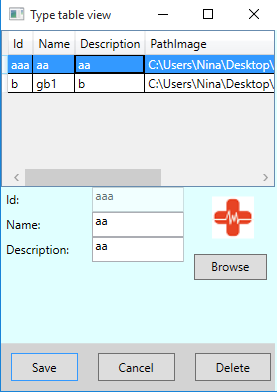
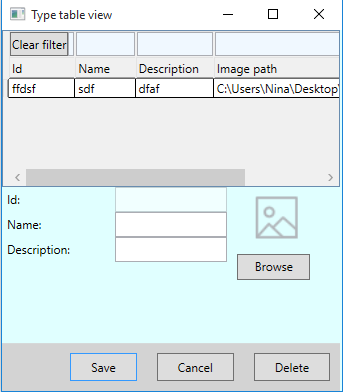
Kaskadno brisanje sa feedbackom

diff --git a/HelpSystem/Helper/View all premises.HTML b/HelpSystem/Helper/View all premises.HTML
@@ -4,20 +4,33 @@
     <meta http-equiv="content-type" content="text/html; charset=windows-1250">
     <meta name="generator" content="Precision Helper 2.0.1">
      <link rel="stylesheet" href="help.css">
-    <title>Premises view</title>
+    <title>Premises preview</title>
   </head>
   <body>
   <h2> View all premises </h2>
   <hr>
   <p>
   &nbsp; &nbsp; &nbsp; Dialog for preview of premises contains table with all previously entered premises. Each column of table 
-  contains certain atribute name and alows you to sort premises in alfabet or reverse alfabet order. Below the table, you
-   can see tabpage with 3 tabs called: <a href="Modify premises.html">"Modify"</a>, <a href="Filter premises.html">"Filter"</a> and 
-   <a href="Search premises.html">"Search"</a>.
+  contains certain atribute name and alows you to sort premises in alfabet or reverse alfabet order. First row of table is filter row. Below the table, you
+   can see form for modifying premises.
    </br></br>
+   Filter row in the table gives you opportunity to filter all premises by the certain atribute. Above each column heder of table
+   you can see filter box where you need to enter or select value for search. After that, all premises which do not match with that filter
+   will disapeare from table and you will see just appropriate ones.
+   
+   </br></br>
+   When you select item from table you can modify in form for modifying premises. Previously entered values appears and you can change them by
+    positioning in appropriate cell. Value "Id" is unique and onced, when new premises is made, you have no more possibility of changing. Other values like "Name", "Description",
+    "Price", "Capacity", "Opening date", "Alcohol serving" and check boxes like "Accessible for persons with disabilities", ""Smoking
+     allowed" and "Reservations avaiable" have posibility of changing in every moment. You are allowed to choose type for each premises. Also, you can add new type or browse picture 
+     from sysem by pressing on appropriate button.
+     </br></br>
+     Click on button "Save" is saving your changes, unlike the click on button "Cancel", which turns you on previous conditions of values. 
+     By pressing on button <a href="Delete premises.html">"Delete"</a> you can delete previously selected premises.
+     </br></br>
     
   <div align="center">
-		<img src = "ModifyPremises.png" >
+		<img src = "PremisesTableView.png" >
 	</div>
  
   </body>

diff --git a/HelpSystem/Helper/View all tags.HTML b/HelpSystem/Helper/View all tags.HTML
@@ -4,23 +4,27 @@
     <meta http-equiv="content-type" content="text/html; charset=windows-1250">
     <meta name="generator" content="Precision Helper 2.0.1">
      <link rel="stylesheet" href="help.css">
-    <title>Tags view</title>
+    <title>Tags preview</title>
   </head>
   <body>
   <h2> View all tags</h2>
   <hr>
   <p>
-  &nbsp; &nbsp; &nbsp;  Dialog for preview of tags contains table with all previously entered tags. Each column of table 
-  contains certain atribute name and alows you to sort types in alfabet or reverse alfabet order. Below the table, you
-   can see form for modifying one specific tag.
+  &nbsp; &nbsp; &nbsp; Dialog for preview of tags contains table with all previously entered tags. Each column of table 
+  contains certain atribute name and alows you to sort premises in alfabet or reverse alfabet order. First row of table is filter row. Below the table, you
+   can see form for modifying tag.
    </br></br>
-  
-   When you select one item from table previously entered values appears and you can change them by
+   Filter row in the table gives you opportunity to filter all tags by the certain atribute. Above each column heder of table
+   you can see filter box where you need to enter or select value for search. After that, all premises which do not match with that filter
+   will disapeare from table and you will see just appropriate ones.
+   
+   </br></br>
+   When you select item from table you can modify in form for modifying tag. Previously entered values appears and you can change them by
     positioning in appropriate cell. Value "Id" is unique and onced, when new tag is made, you have no more possibility of changing. Other values like "Name", "Color" and "Description" 
-    have posibility of changing in every moment. 
+    have posibility of changing in every moment.
      </br></br>
      Click on button "Save" is saving your changes, unlike the click on button "Cancel", which turns you on previous conditions of values. 
-     By pressing on button "Delete" you can delete previously selected tag.
+     By pressing on button <a href="Delete tag.html">"Delete"</a> you can delete previously selected premises.
      </br></br>
    
   <div align="center">

diff --git a/HelpSystem/Helper/View all types.HTML b/HelpSystem/Helper/View all types.HTML
@@ -10,17 +10,21 @@
   <h2> View all types</h2>
   <hr>
   <p>
-  &nbsp; &nbsp; &nbsp;  Dialog for preview of types contains table with all previously entered types. Each column of table 
-  contains certain atribute name and alows you to sort types in alfabet or reverse alfabet order. Below the table, you
-   can see form for modifying one specific type.
+  &nbsp; &nbsp; &nbsp; Dialog for preview of types contains table with all previously entered types. Each column of table 
+  contains certain atribute name and alows you to sort types in alfabet or reverse alfabet order. First row of table is filter row. Below the table, you
+   can see form for modifying premises.
    </br></br>
-  
-   When you select one item from table previously entered values appears and you can change them by
+   Filter row in the table gives you opportunity to filter all types by the certain atribute. Above each column heder of table
+   you can see filter box where you need to enter or select value for search. After that, all types which do not match with that filter
+   will disapeare from table and you will see just appropriate ones.
+   
+   </br></br>
+   When you select item from table you can modify in form for modifying premises. Previously entered values appears and you can change them by
     positioning in appropriate cell. Value "Id" is unique and onced, when new type is made, you have no more possibility of changing. Other values like "Name" and "Description" 
     have posibility of changing in every moment. Also, you can browse picture from sysem by pressing on appropriate button.
      </br></br>
      Click on button "Save" is saving your changes, unlike the click on button "Cancel", which turns you on previous conditions of values. 
-     By pressing on button "Delete" you can delete previously selected type.
+     By pressing on button <a href="Delete type.html">"Delete"</a> you can delete previously selected premises.
      </br></br>
    
   <div align="center">

diff --git a/HelpSystem/About/About.HTML b/HelpSystem/About/About.HTML
@@ -1,7 +1,7 @@
 <!DOCTYPE HTML PUBLIC "-//W3C//DTD HTML 4.01 Transitional//EN">
 <html>
   <head>
-    <meta http-equiv="content-type" content="text/html; charset=windows-1250">
+    <meta http-equiv="content-type" content="text/html; charset=UTF-8">
     <meta name="generator" content="Precision Helper 2.0.1">
      <link rel="stylesheet" href="help.css">
     <title>About</title>
@@ -15,7 +15,8 @@
   this application are Belgrade, Novi Sad, Moscow and Wroclaw, and each of maps is positioned in one of them. If you want
   to add premises to some other city, all you need to do is to zoom out the map of the nearest city to that one. Also, this applicaion
   provides you opportunity to preview all existing premises in application, to modify each one you want, or to delete one if 
-  it is no longer needed. The same actions are possible for tags and types which describes premises in the system, so user can always know
+  it is no longer needed. Help system and posibility of filtering, searching and sorting premises makes the easiest way to select them.
+  The same actions are possible for tags and types which describes premises in the system, so user can always know
   what tipe of premises he is looking for.
    </br></br>
    This application was made by students of Software Engineering and Informational Technologies at Faculty of Technical

diff --git a/GUI/TypeTableView.xaml b/GUI/TypeTableView.xaml
@@ -60,7 +60,7 @@
             <TextBox Name="tbDescription" Grid.Column="1" Grid.Row="2" Text="{Binding Path=Description}" IsEnabled="False"></TextBox>
         </Grid>
         <StackPanel Grid.ColumnSpan="3" Grid.Row="2" Orientation="Horizontal" FlowDirection="RightToLeft" Background="LightGray">
-            <Button x:Name="btnDelete" Content="Delete" ToolTip="Delete selected item" Click="buttonDelete_Click" Margin="10" Padding="20,5" IsEnabled="False"/>
+            <Button x:Name="btnDelete" Content="Delete" ToolTip="Delete selected item" Click="buttonDelete_Click" Margin="10,10,10,0" Padding="20,5" IsEnabled="False" Height="28" VerticalAlignment="Top"/>
             <Button x:Name="btnCancel" Content="Cancel" ToolTip="Cancel changes" Click="btnCancel_Click" Margin="10" Padding="20,5" IsEnabled="False"/>
             <Button x:Name="btnSave" Content="Save" ToolTip="Save changes" IsDefault="True" Click="btnSave_Click" Margin="10" Padding="20,5" IsEnabled="False"/>
         </StackPanel>

diff --git a/HelpSystem/Helper/Add new premises.HTML b/HelpSystem/Helper/Add new premises.HTML
@@ -17,9 +17,11 @@
   <li>"Id" for your premises, which must be unique for each premises. Tthis is the only time you can enter it, so be careful not to make mistake.
   <li>"Name" for your premises.
   <li>"Desctiption" for your premises.
-  <li>"Capacity" for your premises.
+  <li>"Serving alcohol" for your premises.
+  <li>"Prices" for your premises. Choose one from offered options.     
+  <li>"Capacity" for your premises. Choose one from offered options.
   <li>"Opening date" for your premises. Also, you can choose appropriate date from calendar in the right corner of fild.
-  <li>"Type" for your premises. You can also add new type by pressing on button "Add new type" if there is no appropriate one.
+  <li>"Type" for your premises. Choose one from offered options. You can also add new type by pressing on button "Add new type" if there is no appropriate one.
   </ul>
   Boxes you need to check are:
   <ul>

diff --git a/HelpSystem/Helper/Delete type.HTML b/HelpSystem/Helper/Delete type.HTML
@@ -1,0 +1,23 @@
+<!DOCTYPE HTML PUBLIC "-//W3C//DTD HTML 4.01 Transitional//EN">
+<html>
+  <head>
+    <meta http-equiv="content-type" content="text/html; charset=windows-1250">
+    <meta name="generator" content="Precision Helper 2.0.1">
+     <link rel="stylesheet" href="help.css">
+    <title>Type preview</title>
+  </head>
+  <body>
+  <h2> Delete type </h2>
+  <hr>
+  <p>
+  &nbsp; &nbsp; &nbsp; When you select item from table and try to delete it message box will notify you. Since every premises belongs
+  to certain type, when you delete type you will delete all his premises too. If you are sure click on button "Yes" and premises will
+  be deleted. If not, press on button "No" and you will be turned on previous condition.
+     </br></br>
+   
+  <div align="center">
+		<img src = "DeleteType.png" >
+	</div>
+ 
+  </body>
+</html>

diff --git a/HelpSystem/Helper/Delete premises.HTML b/HelpSystem/Helper/Delete premises.HTML
@@ -1,0 +1,22 @@
+<!DOCTYPE HTML PUBLIC "-//W3C//DTD HTML 4.01 Transitional//EN">
+<html>
+  <head>
+    <meta http-equiv="content-type" content="text/html; charset=windows-1250">
+    <meta name="generator" content="Precision Helper 2.0.1">
+     <link rel="stylesheet" href="help.css">
+    <title>Premises preview</title>
+  </head>
+  <body>
+  <h2> Delete premises </h2>
+  <hr>
+  <p>
+  &nbsp; &nbsp; &nbsp; When you select item from table and try to delete it message box will notify you. If you are sure click on button "Yes" and premises will
+  be deleted. If not, press on button "No" and you will be turned on previous condition.
+     </br></br>
+   
+  <div align="center">
+		<img src = "DeletePremises.png" >
+	</div>
+ 
+  </body>
+</html>

diff --git a/HelpSystem/Helper/Delete tag.HTML b/HelpSystem/Helper/Delete tag.HTML
@@ -1,0 +1,22 @@
+<!DOCTYPE HTML PUBLIC "-//W3C//DTD HTML 4.01 Transitional//EN">
+<html>
+  <head>
+    <meta http-equiv="content-type" content="text/html; charset=windows-1250">
+    <meta name="generator" content="Precision Helper 2.0.1">
+     <link rel="stylesheet" href="help.css">
+    <title>Tag preview</title>
+  </head>
+  <body>
+  <h2> Delete tag </h2>
+  <hr>
+  <p>
+  &nbsp; &nbsp; &nbsp; When you select item from table and try to delete it message box will notify you. If you are sure click on button "Yes" and premises will
+  be deleted. If not, press on button "No" and you will be turned on previous condition.
+     </br></br>
+   
+  <div align="center">
+		<img src = "DeleteTag.png" >
+	</div>
+ 
+  </body>
+</html>

diff --git a/HelpSystem/Helper/Add new type.HTML b/HelpSystem/Helper/Add new type.HTML
@@ -18,10 +18,13 @@
   <li>"Name" for your tag.
   <li>"Desctiption" for your tag.
   </ul>
+  You can also browse picture for your type from file system by pressing on button "Browse". You must choose the specific picture for new type because premises of that type, which does not have their
+  own picture, will inherit it from its type by default. 
+  </br></br> 
   Click on button "Save" is saving your new type to the list, unlike the click on button "Cancel", which turns you on previous conditions without saving.
    </br></br>
   <div align="center">
-		<img src = "AddNewType.jpg" >
+		<img src = "AddNewType.png" >
 	</div>
  
   </body>

diff --git a/GUI/TypeTableView.xaml.cs b/GUI/TypeTableView.xaml.cs
@@ -93,20 +93,27 @@ namespace HCI.GUI
                     {
                         var result =
                             MessageBox.Show("There are premises connected to that type.\nDelete the premises as well?",
-                                "Delete connected premises?", MessageBoxButton.YesNo);
+                                "Worning", MessageBoxButton.YesNo);
                         deletable = result == MessageBoxResult.Yes;
                     }
                     if (deletable)
                     {
-                        ctx.Entry(Types[dgrMain.SelectedIndex]).State = EntityState.Deleted;
-                        foreach (var p in ctx.Premises.Include(p => p.Type).Where(p => p.Type.Id == Selected.Id))
+                        var result2 =
+                           MessageBox.Show("You are trying to delete selected type. Are you sure?",
+                               "Worning", MessageBoxButton.YesNo);
+
+                        if (result2 == MessageBoxResult.Yes)
                         {
-                            ctx.Entry(p).State = EntityState.Deleted;
+                            ctx.Entry(Types[dgrMain.SelectedIndex]).State = EntityState.Deleted;
+                            foreach (var p in ctx.Premises.Include(p => p.Type).Where(p => p.Type.Id == Selected.Id))
+                            {
+                                ctx.Entry(p).State = EntityState.Deleted;
+                            }
+                            ctx.SaveChanges();
+                            Types = new ObservableCollection<Type>(ctx.Types);
+                            dgrMain.ItemsSource = Types;
+                            Globals.UpdatePremises();
                         }
-                        ctx.SaveChanges();
-                        Types = new ObservableCollection<Type>(ctx.Types);
-                        dgrMain.ItemsSource = Types;
-                        Globals.UpdatePremises();
                     }
                 }
                 dgrMain.SelectedIndex = -1;
@@ -115,7 +122,7 @@ namespace HCI.GUI
             }
             else
             {
-                MessageBox.Show("You have to select one premise from table!");
+                MessageBox.Show("You have to select one type from table!");
             }
         }
 

diff --git a/GUI/PremisesTableView.xaml.cs b/GUI/PremisesTableView.xaml.cs
@@ -177,14 +177,22 @@ namespace HCI.GUI
 
                 using (var ctx = new DatabaseModel())
                 {
-                    ctx.Entry(Premises[dgrMain.SelectedIndex]).State = EntityState.Deleted;
-                    ctx.SaveChanges();
-                    Premises = new ObservableCollection<Premises>(ctx.Premises.Include(p => p.Tags).Include(p => p.Type).ToList());
-                    //                    foreach (Premises p in Premises)
-                    //                    {
-                    //                        p.Type = ctx.Types.Single(t => t.Id == p.TypeId);
-                    //                    }
-                    dgrMain.ItemsSource = Premises;
+                    var result =
+                            MessageBox.Show("You are trying to delete selected premises. Are you sure?",
+                                "Worning", MessageBoxButton.YesNo);
+                    if (result == MessageBoxResult.Yes)
+                    {
+
+
+                        ctx.Entry(Premises[dgrMain.SelectedIndex]).State = EntityState.Deleted;
+                        ctx.SaveChanges();
+                        Premises = new ObservableCollection<Premises>(ctx.Premises.Include(p => p.Tags).Include(p => p.Type).ToList());
+                        //                    foreach (Premises p in Premises)
+                        //                    {
+                        //                        p.Type = ctx.Types.Single(t => t.Id == p.TypeId);
+                        //                    }
+                        dgrMain.ItemsSource = Premises;
+                    }
                 }
                 dgrMain.SelectedIndex = -1;
                 setSelected();
